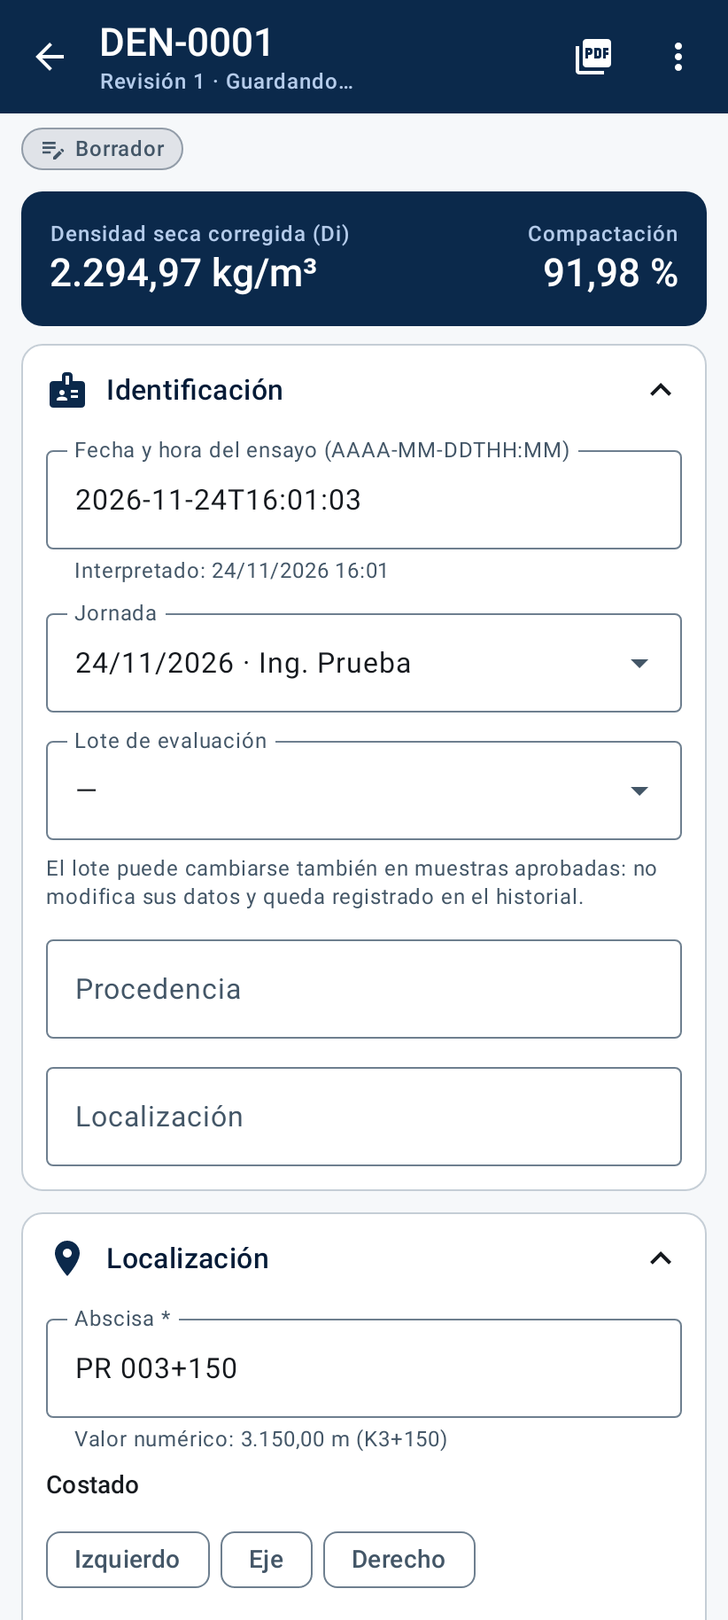
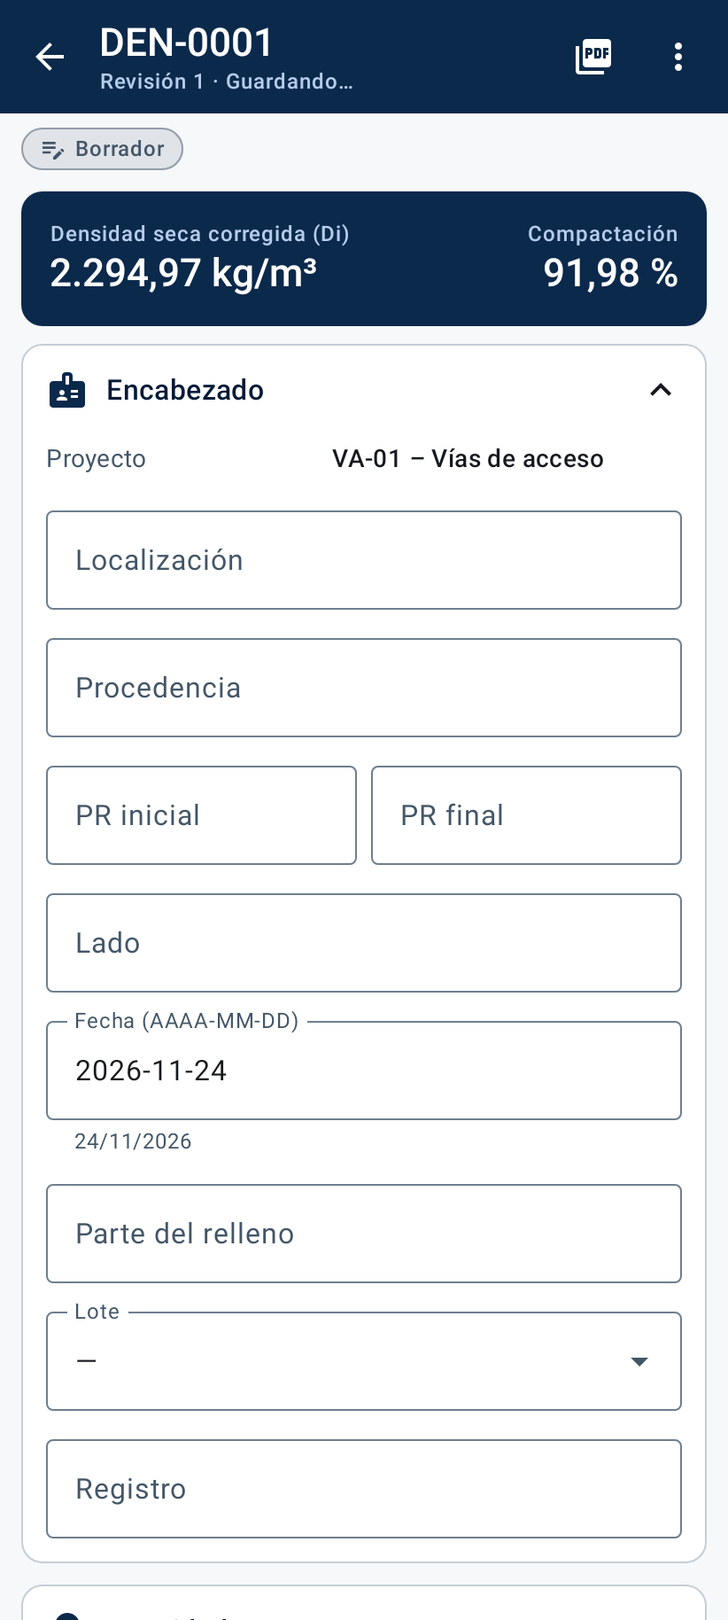
Formulario de muestra con exactamente los campos del Excel 'Cono de arena'
Encabezado (localización, procedencia, PR inicial/final, lado, fecha, parte del relleno, lote, registro),
densidad (No., capa, espesor, PR, costado), filas A–R con los nombres del formato y pie
(irregularidades >15 mm, observaciones, elaboró, aprobó). El PDF individual usa los mismos campos.

Claude-Session: https://claude.ai/code/session_011HT8okW64Hb7pZx4c1uUfV

Changed region(s): [[0.0608, 0.2183, 0.9732, 1.0], [0.9124, 0.6236, 0.9428, 0.6548]]

diff --git a/app/src/main/kotlin/com/geodensidad/app/ui/screens/SampleScreen.kt b/app/src/main/kotlin/com/geodensidad/app/ui/screens/SampleScreen.kt
@@ -102,11 +102,11 @@ fun SampleScreen(nav: NavController, back: () -> Unit) {
                 Column(Modifier.padding(12.dp)) { LinearProgressIndicator(progress = { p.fraction }, Modifier.fillMaxWidth()); Row(verticalAlignment = Alignment.CenterVertically) { Text(p.message, Modifier.weight(1f)); TextButton(onClick = vm::cancelPdf) { Text("Cancelar") } } }
             } }
             item { ResultsSummary(result) }
-            item { IdentificationSection(vm, f, editable) }
-            item { LocationSection(vm, f, texts, editable) }
-            item { EquipmentSection(vm, f, texts, editable, result) }
+            item { HeaderSection(vm, f, editable) }
+            item { DensitySection(vm, f, texts, editable) }
             item { MeasurementSection(vm, texts, editable, result) }
-            item { LabSection(vm, f, texts, editable, result) }
+            item { LabSection(vm, texts, editable, result) }
+            item { FooterSection(vm, f, editable) }
             item { CustomSection(vm, f, texts, editable) }
             item { TraceSection(result) }
             item {
@@ -130,15 +130,6 @@ fun SampleScreen(nav: NavController, back: () -> Unit) {
                             }
                         }
                     }
-                }
-            }
-            item {
-                SectionCard("Observaciones y responsables", Icons.Default.Notes) {
-                    TextInput("Observaciones", f.observations, { v -> vm.update { it.copy(observations = v) } }, enabled = editable, singleLine = false, minLines = 3)
-                    TextInput("Elaboró", f.elaboratedBy, { v -> vm.update { it.copy(elaboratedBy = v) } }, enabled = editable)
-                    rev?.reviewedBy?.let { KeyValue("Revisó", "$it · ${Clock.display(rev!!.reviewedAt!!)}") }
-                    rev?.approvedBy?.let { KeyValue("Aprobó", "$it · ${Clock.display(rev!!.approvedAt!!)}") }
-                    Text("El nombre del responsable es atribución operativa local, no una firma ni autenticación.", style = MaterialTheme.typography.bodySmall, color = Condor.Steel)
                 }
             }
             item { RevisionsSection(vm, nav) }
@@ -188,84 +179,90 @@ private fun ResultsSummary(r: LegacyResult?) {
     }
 }
 
+private fun fieldError(r: LegacyResult?, sym: String) = r?.issues?.filter { it.field == sym && it.severity == Severity.BLOCKING }?.joinToString("; ") { it.message }?.ifBlank { null }
+private fun fieldWarn(r: LegacyResult?, sym: String) = r?.issues?.filter { it.field == sym && it.severity == Severity.WARNING }?.joinToString("; ") { it.message }?.ifBlank { null }
+
+/** Encabezado del formato Excel: PROYECTO, LOCALIZACIÓN, PROCEDENCIA, PR INICIAL, PR FINAL, LADO, FECHA, PARTE DEL RELLENO, LOTE, REGISTRO. */
 @Composable
-private fun IdentificationSection(vm: SampleViewModel, f: SampleForm, editable: Boolean) {
-    val journeys by vm.journeys.collectAsStateWithLifecycle()
+private fun HeaderSection(vm: SampleViewModel, f: SampleForm, editable: Boolean) {
     val lots by vm.lots.collectAsStateWithLifecycle()
     val s by vm.sample.collectAsStateWithLifecycle()
-    SectionCard("Identificación", Icons.Default.Badge) {
-        TextInput("Fecha y hora del ensayo (AAAA-MM-DDTHH:MM)", f.testDateTime ?: "", { v -> vm.update { it.copy(testDateTime = v.ifBlank { null }) } }, enabled = editable,
-            supporting = runCatching { java.time.LocalDateTime.parse(f.testDateTime) }.fold({ "Interpretado: ${Clock.displayDate(f.testDateTime)} ${f.testDateTime?.substring(11, 16)}" }, { "Formato esperado 2026-11-24T09:30" }))
-        Dropdown("Jornada", journeys, journeys.firstOrNull { it.id == s?.journeyId }, { "${Clock.displayDate(it.workDate)} · ${it.workFront.ifBlank { it.responsible }}" }, { it?.let { j -> vm.moveJourney(j.id) } }, enabled = editable, allowNone = false)
-        Dropdown("Lote de evaluación", lots, lots.firstOrNull { it.id == s?.lotId }, { it.code }, { vm.assignLot(it?.id) })
-        Text("El lote puede cambiarse también en muestras aprobadas: no modifica sus datos y queda registrado en el historial.", style = MaterialTheme.typography.bodySmall, color = Condor.Steel)
-        TextInput("Procedencia", f.origin, { v -> vm.update { it.copy(origin = v) } }, enabled = editable)
+    val project by vm.projectName.collectAsStateWithLifecycle()
+    SectionCard("Encabezado", Icons.Default.Badge) {
+        KeyValue("Proyecto", project)
         TextInput("Localización", f.location, { v -> vm.update { it.copy(location = v) } }, enabled = editable)
+        TextInput("Procedencia", f.origin, { v -> vm.update { it.copy(origin = v) } }, enabled = editable)
+        Row(horizontalArrangement = Arrangement.spacedBy(8.dp)) {
+            OutlinedTextField(f.prInicial, { v -> vm.update { it.copy(prInicial = v) } }, label = { Text("PR inicial") }, enabled = editable, singleLine = true, modifier = Modifier.weight(1f))
+            OutlinedTextField(f.prFinal, { v -> vm.update { it.copy(prFinal = v) } }, label = { Text("PR final") }, enabled = editable, singleLine = true, modifier = Modifier.weight(1f))
+        }
+        TextInput("Lado", f.lado, { v -> vm.update { it.copy(lado = v) } }, enabled = editable)
+        val dateOk = f.testDateTime.isNullOrBlank() || runCatching { java.time.LocalDate.parse(f.testDateTime!!.take(10)) }.isSuccess
+        TextInput("Fecha (AAAA-MM-DD)", f.testDateTime?.take(10) ?: "", { v -> vm.update { it.copy(testDateTime = v.ifBlank { null }) } }, enabled = editable,
+            supporting = if (dateOk) f.testDateTime?.let { Clock.displayDate(it) } else "Fecha no válida")
+        TextInput("Parte del relleno", f.fillPart, { v -> vm.update { it.copy(fillPart = v) } }, enabled = editable)
+        Dropdown("Lote", lots, lots.firstOrNull { it.id == s?.lotId }, { it.code }, { vm.assignLot(it?.id) })
+        TextInput("Registro", f.registro, { v -> vm.update { it.copy(registro = v) } }, enabled = editable)
     }
 }
 
+/** Columna de la densidad: DENSIDAD No., CAPA No., ESPESOR CAPA, PR, COSTADO. */
 @OptIn(ExperimentalLayoutApi::class)
 @Composable
-private fun LocationSection(vm: SampleViewModel, f: SampleForm, texts: Map<String, String>, editable: Boolean) {
-    SectionCard("Localización", Icons.Default.Place) {
+private fun DensitySection(vm: SampleViewModel, f: SampleForm, texts: Map<String, String>, editable: Boolean) {
+    val s by vm.sample.collectAsStateWithLifecycle()
+    SectionCard("Densidad", Icons.Default.Place) {
+        KeyValue("Densidad No.", s?.code ?: "—")
+        Row(horizontalArrangement = Arrangement.spacedBy(8.dp)) {
+            OutlinedTextField(f.layer, { v -> vm.update { it.copy(layer = v) } }, label = { Text("Capa No.") }, enabled = editable, singleLine = true, modifier = Modifier.weight(1f))
+            NumberInput("Espesor capa", texts["thickness"] ?: "", f.thicknessUnit, { vm.setNumber("thickness", it) }, Modifier.weight(1f), editable)
+        }
         val m = Abscisa.toMeters(f.abscisa)
-        TextInput("Abscisa *", f.abscisa, { v -> vm.update { it.copy(abscisa = v) } }, enabled = editable,
-            supporting = if (f.abscisa.isBlank()) "Ej.: PR 003+150" else m?.let { "Valor numérico: ${Fmt.num(it, 2)} m (${Abscisa.formatMeters(it)})" } ?: "Sin valor numérico (se conserva el texto tal cual)")
+        TextInput("PR *", f.abscisa, { v -> vm.update { it.copy(abscisa = v) } }, enabled = editable,
+            supporting = if (f.abscisa.isBlank()) "Ej.: PR 003+150" else m?.let { "Valor numérico: ${Fmt.num(it, 2)} m" } ?: "Sin valor numérico (se conserva el texto)")
         Text("Costado", style = MaterialTheme.typography.labelLarge)
         FlowRow(horizontalArrangement = Arrangement.spacedBy(6.dp)) {
             listOf("Izquierdo", "Eje", "Derecho").forEach { o -> FilterChip(f.side == o, { if (editable) vm.update { it.copy(side = if (it.side == o) "" else o) } }, label = { Text(o) }, enabled = editable) }
         }
-        Row(horizontalArrangement = Arrangement.spacedBy(8.dp)) {
-            OutlinedTextField(f.layer, { v -> vm.update { it.copy(layer = v) } }, label = { Text("Capa No.") }, enabled = editable, singleLine = true, modifier = Modifier.weight(1f))
-            NumberInput("Espesor", texts["thickness"] ?: "", f.thicknessUnit, { vm.setNumber("thickness", it) }, Modifier.weight(1f), editable)
-        }
-        TextInput("Parte del relleno", f.fillPart, { v -> vm.update { it.copy(fillPart = v) } }, enabled = editable, supporting = "Ej.: Núcleo, Corona")
     }
 }
 
-private fun fieldError(r: LegacyResult?, sym: String) = r?.issues?.filter { it.field == sym && it.severity == Severity.BLOCKING }?.joinToString("; ") { it.message }?.ifBlank { null }
-private fun fieldWarn(r: LegacyResult?, sym: String) = r?.issues?.filter { it.field == sym && it.severity == Severity.WARNING }?.joinToString("; ") { it.message }?.ifBlank { null }
-
-@Composable
-private fun EquipmentSection(vm: SampleViewModel, f: SampleForm, texts: Map<String, String>, editable: Boolean, r: LegacyResult?) {
-    val cals by vm.calibrations.collectAsStateWithLifecycle()
-    val eqs by vm.equipment.collectAsStateWithLifecycle()
-    SectionCard("Equipo y calibración", Icons.Default.Build) {
-        Dropdown("Calibración (propone D y F)", cals.filter { !it.archived || it.id == f.calibrationId }, cals.firstOrNull { it.id == f.calibrationId },
-            { c -> "${c.code} · ${eqs.firstOrNull { it.id == c.equipmentId }?.code ?: ""} · ${c.date}" }, { vm.applyCalibration(it?.id) }, enabled = editable)
-        cals.firstOrNull { it.id == f.calibrationId }?.validUntil?.let { v -> if (v < java.time.LocalDate.now().toString()) Banner("Calibración vencida el ${Clock.displayDate(v)}", Condor.Warn) }
-        NumberInput(InputDefs.get("D").name, texts["d"] ?: "", "g", { vm.setNumber("d", it) }, enabled = editable, symbol = "D", error = fieldError(r, "D"))
-        NumberInput(InputDefs.get("F").name, texts["f"] ?: "", "g/cm³", { vm.setNumber("f", it) }, enabled = editable, symbol = "F", error = fieldError(r, "F"), hint = fieldWarn(r, "F"))
-        NumberInput(InputDefs.get("I").name, texts["i"] ?: "", "×1000 kg/m³", { vm.setNumber("i", it) }, enabled = editable, symbol = "I", error = fieldError(r, "I"),
-            hint = fieldWarn(r, "I") ?: "Interpretación heredada pendiente de revisión técnica")
-    }
-}
-
+/** Filas A, B, D, F, H, I, J, L del formato, en el mismo orden. */
 @Composable
 private fun MeasurementSection(vm: SampleViewModel, texts: Map<String, String>, editable: Boolean, r: LegacyResult?) {
-    SectionCard("Mediciones", Icons.Default.Scale) {
-        NumberInput(InputDefs.get("A").name, texts["a"] ?: "", "g", { vm.setNumber("a", it) }, enabled = editable, symbol = "A", error = fieldError(r, "A"))
-        NumberInput(InputDefs.get("B").name, texts["b"] ?: "", "g", { vm.setNumber("b", it) }, enabled = editable, symbol = "B", error = fieldError(r, "B"),
-            hint = r?.value("C")?.let { "Arena usada C = ${Fmt.num(it, 1)} g; en el hueco E = ${Fmt.num(r.value("E"), 1)} g" })
-        NumberInput(InputDefs.get("J").name, texts["j"] ?: "", "g", { vm.setNumber("j", it) }, enabled = editable, symbol = "J", error = fieldError(r, "J"))
-        NumberInput(InputDefs.get("H").name, texts["h"] ?: "", "g", { vm.setNumber("h", it) }, enabled = editable, symbol = "H", error = fieldError(r, "H"),
-            hint = fieldWarn(r, "K") ?: r?.value("K")?.let { "Retenido K = ${Fmt.num(it, 2)} %" })
-        NumberInput("${InputDefs.get("L").name} (en porcentaje)", texts["l"] ?: "", "%", { vm.setNumber("l", it) }, enabled = editable, symbol = "L", error = fieldError(r, "L"),
-            hint = fieldWarn(r, "L") ?: "Digite 6 para 6 % (se guarda como 0,06)")
+    @Composable fun field(sym: String, key: String, unit: String, hint: String? = null) =
+        NumberInput(InputDefs.get(sym).name, texts[key] ?: "", unit, { vm.setNumber(key, it) }, enabled = editable, symbol = sym, error = fieldError(r, sym), hint = fieldWarn(r, sym) ?: hint)
+    SectionCard("Datos del ensayo", Icons.Default.Scale) {
+        field("A", "a", "g")
+        field("B", "b", "g", r?.value("C")?.let { "C · Peso arena total usada = ${Fmt.num(it, 1)} g" })
+        field("D", "d", "g", r?.value("E")?.let { "E · Peso arena en el hueco = ${Fmt.num(it, 1)} g" })
+        field("F", "f", "g/cm³", r?.value("G")?.let { "G · Volumen del hueco = ${Fmt.num(it, 2)} cm³" })
+        field("H", "h", "g")
+        field("I", "i", "g/cm³")
+        field("J", "j", "g", r?.value("K")?.let { "K · % retenido 3/4 = ${Fmt.num(it, 2)} %" })
+        field("L", "l", "%", "Digite 6 para 6 % (el Excel lo guarda como 0,06)")
     }
 }
 
+/** Filas Q y R del formato. */
 @Composable
-private fun LabSection(vm: SampleViewModel, f: SampleForm, texts: Map<String, String>, editable: Boolean, r: LegacyResult?) {
-    val labs by vm.labRefs.collectAsStateWithLifecycle()
-    val mats by vm.materials.collectAsStateWithLifecycle()
-    SectionCard("Referencia de laboratorio y material", Icons.Default.Biotech) {
-        Dropdown("Material", mats.filter { !it.archived || it.id == f.materialId }, mats.firstOrNull { it.id == f.materialId }, { "${it.code} – ${it.name}" }, { m -> vm.update { it.copy(materialId = m?.id) } }, enabled = editable)
-        Dropdown("Referencia (propone Q y R)", labs.filter { !it.archived || it.id == f.labRefId }, labs.firstOrNull { it.id == f.labRefId }, { "${it.code} · ${it.testId}" }, { vm.applyLabRef(it?.id) }, enabled = editable)
-        TextInput("Identificación del ensayo de laboratorio", f.labTestId, { v -> vm.update { it.copy(labTestId = v) } }, enabled = editable)
+private fun LabSection(vm: SampleViewModel, texts: Map<String, String>, editable: Boolean, r: LegacyResult?) {
+    SectionCard("Laboratorio", Icons.Default.Biotech) {
         NumberInput(InputDefs.get("Q").name, texts["q"] ?: "", "kg/m³", { vm.setNumber("q", it) }, enabled = editable, symbol = "Q", error = fieldError(r, "Q"))
-        NumberInput("Humedad óptima (en porcentaje)", texts["r"] ?: "", "%", { vm.setNumber("r", it) }, enabled = editable, symbol = "R", error = fieldError(r, "R"),
-            hint = r?.value("ΔW")?.let { "Diferencia con la humedad de campo: ${Fmt.num(it, 2)} puntos %" })
+        NumberInput("Humedad óptima", texts["r"] ?: "", "%", { vm.setNumber("r", it) }, enabled = editable, symbol = "R", error = fieldError(r, "R"), hint = "Digite 6,68 para 6,68 %")
+    }
+}
+
+/** Pie del formato: N° IRREGULARIDADES >15mm, OBSERVACIONES, ELABORÓ, APROBÓ. */
+@Composable
+private fun FooterSection(vm: SampleViewModel, f: SampleForm, editable: Boolean) {
+    val rev by vm.currentRevision.collectAsStateWithLifecycle()
+    SectionCard("Observaciones y firmas", Icons.Default.Notes) {
+        TextInput("N° irregularidades >15 mm", f.irregularidades, { v -> vm.update { it.copy(irregularidades = v) } }, enabled = editable)
+        TextInput("Observaciones", f.observations, { v -> vm.update { it.copy(observations = v) } }, enabled = editable, singleLine = false, minLines = 3)
+        TextInput("Elaboró (nombre)", f.elaboratedBy, { v -> vm.update { it.copy(elaboratedBy = v) } }, enabled = editable)
+        TextInput("Aprobó (nombre)", f.aprobo, { v -> vm.update { it.copy(aprobo = v) } }, enabled = editable)
+        rev?.approvedBy?.let { KeyValue("Aprobación registrada", "$it · ${Clock.display(rev!!.approvedAt!!)}") }
     }
 }
 

diff --git a/app/src/main/kotlin/com/geodensidad/app/report/ReportService.kt b/app/src/main/kotlin/com/geodensidad/app/report/ReportService.kt
@@ -100,11 +100,11 @@ class ReportService(
                 st == SampleStatus.DRAFT, rev.engineVersion, BuildConfig.VERSION_NAME),
             sampleCode = s.code, revisionLabel = "Revisión ${rev.number}${rev.reason?.let { " (motivo: $it)" } ?: ""}",
             documentStatus = st.label + (if (st == SampleStatus.VOID) " – ${s.voidReason}" else "") + (rev.approvedBy?.let { " por $it, ${Clock.display(rev.approvedAt!!)}" } ?: ""),
-            projectPairs = listOf("Proyecto" to "${proj.code} – ${proj.name}${if (proj.isDemo) " (DEMOSTRATIVO)" else ""}", "Actividad" to act.name, "Cliente / entidad" to proj.client, "Contratista" to proj.contractor),
-            journeyPairs = listOf("Jornada" to Clock.displayDate(journey?.workDate), "Responsable" to (journey?.responsible ?: ""), "Frente de trabajo" to (journey?.workFront ?: ""),
-                "Fecha y hora del ensayo" to (f.testDateTime?.replace('T', ' ') ?: "—")),
-            locationPairs = listOf("Abscisa" to f.abscisa, "Costado" to f.side, "Capa" to f.layer, "Espesor" to (f.thickness?.let { "${it.replace('.', ',')} ${f.thicknessUnit}" } ?: ""),
-                "Parte del relleno" to f.fillPart, "Procedencia" to f.origin, "Localización" to f.location, "Material" to (material?.name ?: ""), "Lote" to (lot?.code ?: "Sin lote")),
+            projectPairs = listOf("Proyecto" to "${proj.code} – ${proj.name}${if (proj.isDemo) " (DEMOSTRATIVO)" else ""}", "Localización" to f.location,
+                "Procedencia" to f.origin, "PR inicial" to f.prInicial, "PR final" to f.prFinal, "Lado" to f.lado),
+            journeyPairs = listOf("Fecha" to Clock.displayDate(f.testDateTime), "Parte del relleno" to f.fillPart, "Lote" to (lot?.code ?: ""), "Registro" to f.registro),
+            locationPairs = listOf("Densidad No." to s.code, "Capa No." to f.layer, "Espesor capa" to (f.thickness?.let { "${it.replace('.', ',')} ${f.thicknessUnit}" } ?: ""),
+                "PR" to f.abscisa, "Costado" to f.side, "N° irregularidades >15 mm" to f.irregularidades),
             measurementRows = ReportRows.measurementRows(f.toInputs()),
             resultRows = ReportRows.resultRows(r),
             calibrationPairs = listOf("Calibración" to (cal?.code ?: "Sin calibración de catálogo"), "Equipo" to (cal?.equipment ?: ""), "Fecha" to (cal?.date ?: ""),
@@ -118,7 +118,7 @@ class ReportService(
                 listOf("La reproducción aritmética del Excel no certifica la validez normativa del método.") +
                 (if (proj.isDemo) listOf("DATOS DEMOSTRATIVOS: no corresponden a un ensayo real.") else emptyList()),
             observations = f.observations, customPairs = customPairs,
-            elaboratedBy = f.elaboratedBy.ifBlank { null }, approvedBy = rev.approvedBy,
+            elaboratedBy = f.elaboratedBy.ifBlank { null }, approvedBy = rev.approvedBy ?: f.aprobo.ifBlank { null },
             photos = photos, photosPerPage = settings.current().photosPerPage,
         )
         val entity = write(reportId, code, "SAMPLE", act.id, s.id, rev.id, now, data.issue, rev.engineVersion, "Muestra ${s.code}, revisión ${rev.number}",

diff --git a/app/src/main/kotlin/com/geodensidad/app/domain/GeoRepository.kt b/app/src/main/kotlin/com/geodensidad/app/domain/GeoRepository.kt
@@ -95,7 +95,7 @@ class GeoRepository(val db: AppDatabase, private val settings: SettingsRepositor
             act.defaultCalibrationId?.let { form = applyCalibration(form, it) }
             act.defaultLabRefId?.let { form = applyLabRef(form, it) }
         }
-        form = form.copy(testDateTime = form.testDateTime ?: LocalDateTime.now(Clock.zone()).withNano(0).format(DateTimeFormatter.ISO_LOCAL_DATE_TIME))
+        form = form.copy(testDateTime = form.testDateTime ?: LocalDate.now(Clock.zone()).toString())
         val now = Clock.nowMillis(); val id = newId(); val revId = newId()
         db.withTransaction {
             val seq = db.samples().maxSeq(activityId) + 1
@@ -199,7 +199,7 @@ class GeoRepository(val db: AppDatabase, private val settings: SettingsRepositor
         b.result.steps.filter { it.value == null && it.symbol in setOf("S", "N", "P") && it.unavailableReason?.startsWith("Faltan") == true }
             .forEach { errs += "${it.symbol}: ${it.unavailableReason}" }
         if (b.result.value("S") == null && errs.isEmpty()) errs += "No se pudo calcular la compactación"
-        if (b.form.abscisa.isBlank()) errs += "Abscisa: dato obligatorio"
+        if (b.form.abscisa.isBlank()) errs += "PR: dato obligatorio"
         db.customFields().listAll(CustomFieldEntityType.SAMPLE.name).filter { it.required && !it.archived }.forEach { f ->
             if (b.form.custom[f.key].isNullOrBlank()) errs += "${f.label}: campo obligatorio"
         }
@@ -277,6 +277,7 @@ class GeoRepository(val db: AppDatabase, private val settings: SettingsRepositor
         val f = b.form
         val act = db.activities().get(b.sample.activityId)!!
         var form = SampleForm(i = f.i ?: act.defaultBulk, elaboratedBy = settings.current().responsible)
+        if (DuplicableField.HEADER in fields) form = form.copy(prInicial = f.prInicial, prFinal = f.prFinal, lado = f.lado, registro = f.registro, testDateTime = f.testDateTime, aprobo = f.aprobo)
         if (DuplicableField.ORIGIN in fields) form = form.copy(origin = f.origin)
         if (DuplicableField.LOCATION in fields) form = form.copy(location = f.location)
         if (DuplicableField.SIDE in fields) form = form.copy(side = f.side)

diff --git a/core/src/main/kotlin/com/geodensidad/core/calc/ConoArenaLegacy.kt b/core/src/main/kotlin/com/geodensidad/core/calc/ConoArenaLegacy.kt
@@ -202,16 +202,16 @@ object StepDefs {
 object InputDefs {
     data class Def(val symbol: String, val name: String, val unit: String, val note: String? = null)
     val list = listOf(
-        Def("A", "Masa inicial de frasco y arena", "g"),
-        Def("B", "Masa final de frasco y arena", "g"),
+        Def("A", "Peso frasco y arena inicial", "g"),
+        Def("B", "Peso frasco y arena restante", "g"),
         Def("D", "Constante del cono", "g"),
         Def("F", "Densidad de la arena", "g/cm³"),
-        Def("H", "Masa retenida en tamiz de ¾″", "g"),
-        Def("I", "Parámetro bulk (heredado)", "adimensional ×1000 kg/m³",
+        Def("H", "Material retenido en 3/4", "g"),
+        Def("I", "Gravedad específica bulk", "g/cm³ (usado como I×1000 kg/m³)",
             "El Excel lo denomina 'gravedad específica bulk' pero indica g/cm³. Se usa numéricamente como I×1000 en kg/m³. Requiere revisión técnica."),
-        Def("J", "Masa húmeda del material extraído", "g"),
-        Def("L", "Humedad total", "%", "Se digita en porcentaje y se almacena como fracción (6 % → 0,06)."),
-        Def("Q", "Densidad seca máxima de laboratorio (De)", "kg/m³"),
+        Def("J", "Peso material extraído húmedo", "g"),
+        Def("L", "Humedad", "%", "Se digita en porcentaje y se almacena como fracción (6 % → 0,06)."),
+        Def("Q", "Densidad máxima de laboratorio (De)", "kg/m³"),
         Def("R", "Humedad óptima", "%", "Se digita en porcentaje y se almacena como fracción."),
     )
     fun get(symbol: String) = list.first { it.symbol == symbol }

diff --git a/app/src/test/kotlin/com/geodensidad/app/UiFlowTest.kt b/app/src/test/kotlin/com/geodensidad/app/UiFlowTest.kt
@@ -54,15 +54,15 @@ class UiFlowTest {
         shot("03_actividad")
         rule.onNodeWithText("DEN-0001", substring = true).performClick()
         waitText("Revisión 1")
-        rule.onNodeWithText("Abscisa *").performTextReplacement("PR 003+150")
         fun num(label: String, v: String) {
             val m = hasText(label, substring = true) and hasSetTextAction()
             rule.onAllNodes(hasScrollToNodeAction())[0].performScrollToNode(m)
             rule.onNode(m).performTextReplacement(v)
         }
+        num("PR *", "PR 003+150")
         num("D · Constante del cono", "1735"); num("F · Densidad de la arena", "1,396")
-        num("A · Masa inicial", "7139"); num("B · Masa final", "3317"); num("J · Masa húmeda", "3694"); num("H · Masa retenida", "410"); num("L · Humedad total", "6")
-        num("Q · Densidad seca máxima", "2495"); num("R · Humedad óptima", "6,68")
+        num("A · Peso frasco y arena inicial", "7139"); num("B · Peso frasco y arena restante", "3317"); num("J · Peso material extraído", "3694"); num("H · Material retenido", "410"); num("L · Humedad", "6")
+        num("Q · Densidad máxima", "2495"); num("R · Humedad óptima", "6,68")
         rule.onAllNodes(hasScrollToNodeAction())[0].performScrollToIndex(0)
         waitText("91,98 %")
         rule.onNodeWithText("2.294,97 kg/m³").assertExists()

diff --git a/core/src/main/kotlin/com/geodensidad/core/report/ReportRenderer.kt b/core/src/main/kotlin/com/geodensidad/core/report/ReportRenderer.kt
@@ -7,14 +7,14 @@ object ReportRenderer {
         val l = Layout(m)
         l.heading("1. Identificación")
         l.keyValues(listOf("Muestra" to d.sampleCode, "Revisión" to d.revisionLabel, "Estado documental" to d.documentStatus, "Identificador de informe" to d.issue.reportId) + d.projectPairs)
-        l.heading("2. Jornada y localización")
+        l.heading("2. Registro y densidad")
         l.keyValues(d.journeyPairs + d.locationPairs)
         l.heading("3. Equipo, calibración y referencia de laboratorio")
         l.heading("Calibración utilizada", 2)
         l.keyValues(d.calibrationPairs)
         l.heading("Referencia de laboratorio", 2)
         l.keyValues(d.labRefPairs)
-        l.heading("4. Mediciones")
+        l.heading("4. Datos del ensayo")
         l.table(listOf(Layout.Col("Símb.", 0.6f), Layout.Col("Descripción", 4f), Layout.Col("Valor", 1.4f, true), Layout.Col("Unidad", 1.4f)), d.measurementRows)
         l.heading("5. Resultados y trazabilidad del cálculo")
         l.table(listOf(Layout.Col("Símb.", 0.6f), Layout.Col("Resultado", 3f), Layout.Col("Valor", 1.3f, true), Layout.Col("Unidad", 1.1f), Layout.Col("Fórmula", 3.2f)), d.resultRows)

diff --git a/app/src/main/kotlin/com/geodensidad/app/domain/Model.kt b/app/src/main/kotlin/com/geodensidad/app/domain/Model.kt
@@ -73,6 +73,13 @@ data class SampleForm(
     val labTestId: String = "",
     val observations: String = "",
     val elaboratedBy: String = "",
+    // Campos del encabezado y pie del formato Excel 'Cono de arena'
+    val prInicial: String = "",
+    val prFinal: String = "",
+    val lado: String = "",
+    val registro: String = "",
+    val irregularidades: String = "",
+    val aprobo: String = "",
     val custom: Map<String, String> = emptyMap(),
 ) {
     fun toInputs() = LegacyInputs(
@@ -85,7 +92,7 @@ data class SampleForm(
 
 /** Campos contextuales que se pueden copiar al duplicar una muestra (nunca mediciones ni resultados). */
 enum class DuplicableField(val label: String) {
-    JOURNEY("Jornada"), ORIGIN("Procedencia"), LOCATION("Localización"), SIDE("Costado"), LAYER("Capa"),
+    HEADER("Encabezado (PR inicial/final, lado, fecha, registro)"), JOURNEY("Jornada"), ORIGIN("Procedencia"), LOCATION("Localización"), SIDE("Costado"), LAYER("Capa"),
     THICKNESS("Espesor"), FILL_PART("Parte del relleno"), MATERIAL("Material"), CALIBRATION("Equipo y calibración"),
     LAB_REF("Referencia de laboratorio"), LOT("Lote"),
 }

diff --git a/app/src/main/kotlin/com/geodensidad/app/ui/screens/SampleViewModel.kt b/app/src/main/kotlin/com/geodensidad/app/ui/screens/SampleViewModel.kt
@@ -42,6 +42,8 @@ class SampleViewModel(private val c: AppContainer, private val h: SavedStateHand
     val journeys = sample.filterNotNull().map { it.activityId }.distinctUntilChanged().flatMapLatest { c.db.journeys().observeByActivity(it) }.state(emptyList())
     val lots = sample.filterNotNull().map { it.activityId }.distinctUntilChanged().flatMapLatest { c.db.lots().observeByActivity(it) }.state(emptyList())
 
+    val projectName = sample.filterNotNull().map { it.activityId }.distinctUntilChanged()
+        .map { aid -> c.db.activities().get(aid)?.let { a -> c.db.projects().get(a.projectId)?.let { "${it.code} – ${it.name}".trim(' ', '–') } } ?: "—" }.state("—")
     val form = MutableStateFlow<SampleForm?>(null)
     val texts = MutableStateFlow<Map<String, String>>(emptyMap())
     val result = form.filterNotNull().map { ConoArenaLegacy.calculate(it.toInputs()) }.state(null)

diff --git a/docs/MANUAL_DE_CAMPO.md b/docs/MANUAL_DE_CAMPO.md
@@ -4,7 +4,13 @@
 2. **Catálogos**: registre equipos, calibraciones (D y F), referencias de laboratorio (Q y humedad óptima) y materiales.
 3. **Proyecto → Actividad**. En la actividad (icono de ajustes) elija calibración, referencia, material y criterio predeterminados.
 4. **Jornadas**: fecha, responsable, frente de trabajo.
-5. **Nueva muestra**: complete las secciones. Todo se guarda solo ("Guardado hh:mm:ss").
+5. **Nueva muestra**: el formulario pide exactamente los datos del formato Excel 'Cono de arena', en el mismo orden:
+   - *Encabezado*: Proyecto (automático), Localización, Procedencia, PR inicial, PR final, Lado, Fecha, Parte del relleno, Lote, Registro.
+   - *Densidad*: Densidad No. (automático), Capa No., Espesor capa, PR, Costado.
+   - *Datos del ensayo*: A, B, D, F, H, I, J, L (C, E, G, K, M, N, O, P y S se calculan).
+   - *Laboratorio*: Q (densidad máxima, De) y R (humedad óptima).
+   - *Observaciones y firmas*: N° irregularidades >15 mm, Observaciones, Elaboró, Aprobó.
+   Si la actividad tiene calibración y referencia predeterminadas, D, F, Q, R e I se proponen solos. Todo se guarda automáticamente ("Guardado hh:mm:ss").
    - Use coma decimal. Campo vacío = dato faltante (no es cero).
    - Humedades en porcentaje: digite `6` para 6 %.
    - Errores en rojo junto al campo; advertencias en ámbar.

diff --git a/CHANGELOG.md b/CHANGELOG.md
@@ -1,5 +1,9 @@
 # Changelog
 
+## 1.0.0 — ajuste posterior
+- El formulario de muestra pide exactamente los campos del Excel 'Cono de arena' (encabezado, densidad, filas A–R, irregularidades >15 mm, observaciones, elaboró, aprobó), con sus nombres y orden. Nuevos campos: PR inicial, PR final, Lado, Registro, N° irregularidades >15 mm y Aprobó. El PDF individual los incluye.
+- La fecha del ensayo es solo fecha, como en el formato.
+
 ## 1.0.0 (versionCode 1) — 2026-11-24
 
 Versiones independientes: app 1.0.0 · base de datos v1 · motor `cono-arena-legacy-1.0.0` · plantilla PDF 1.0.0 · formato de respaldo v1 · criterio `LEGACY-DM-KS` v1.0.0 (no validado).
